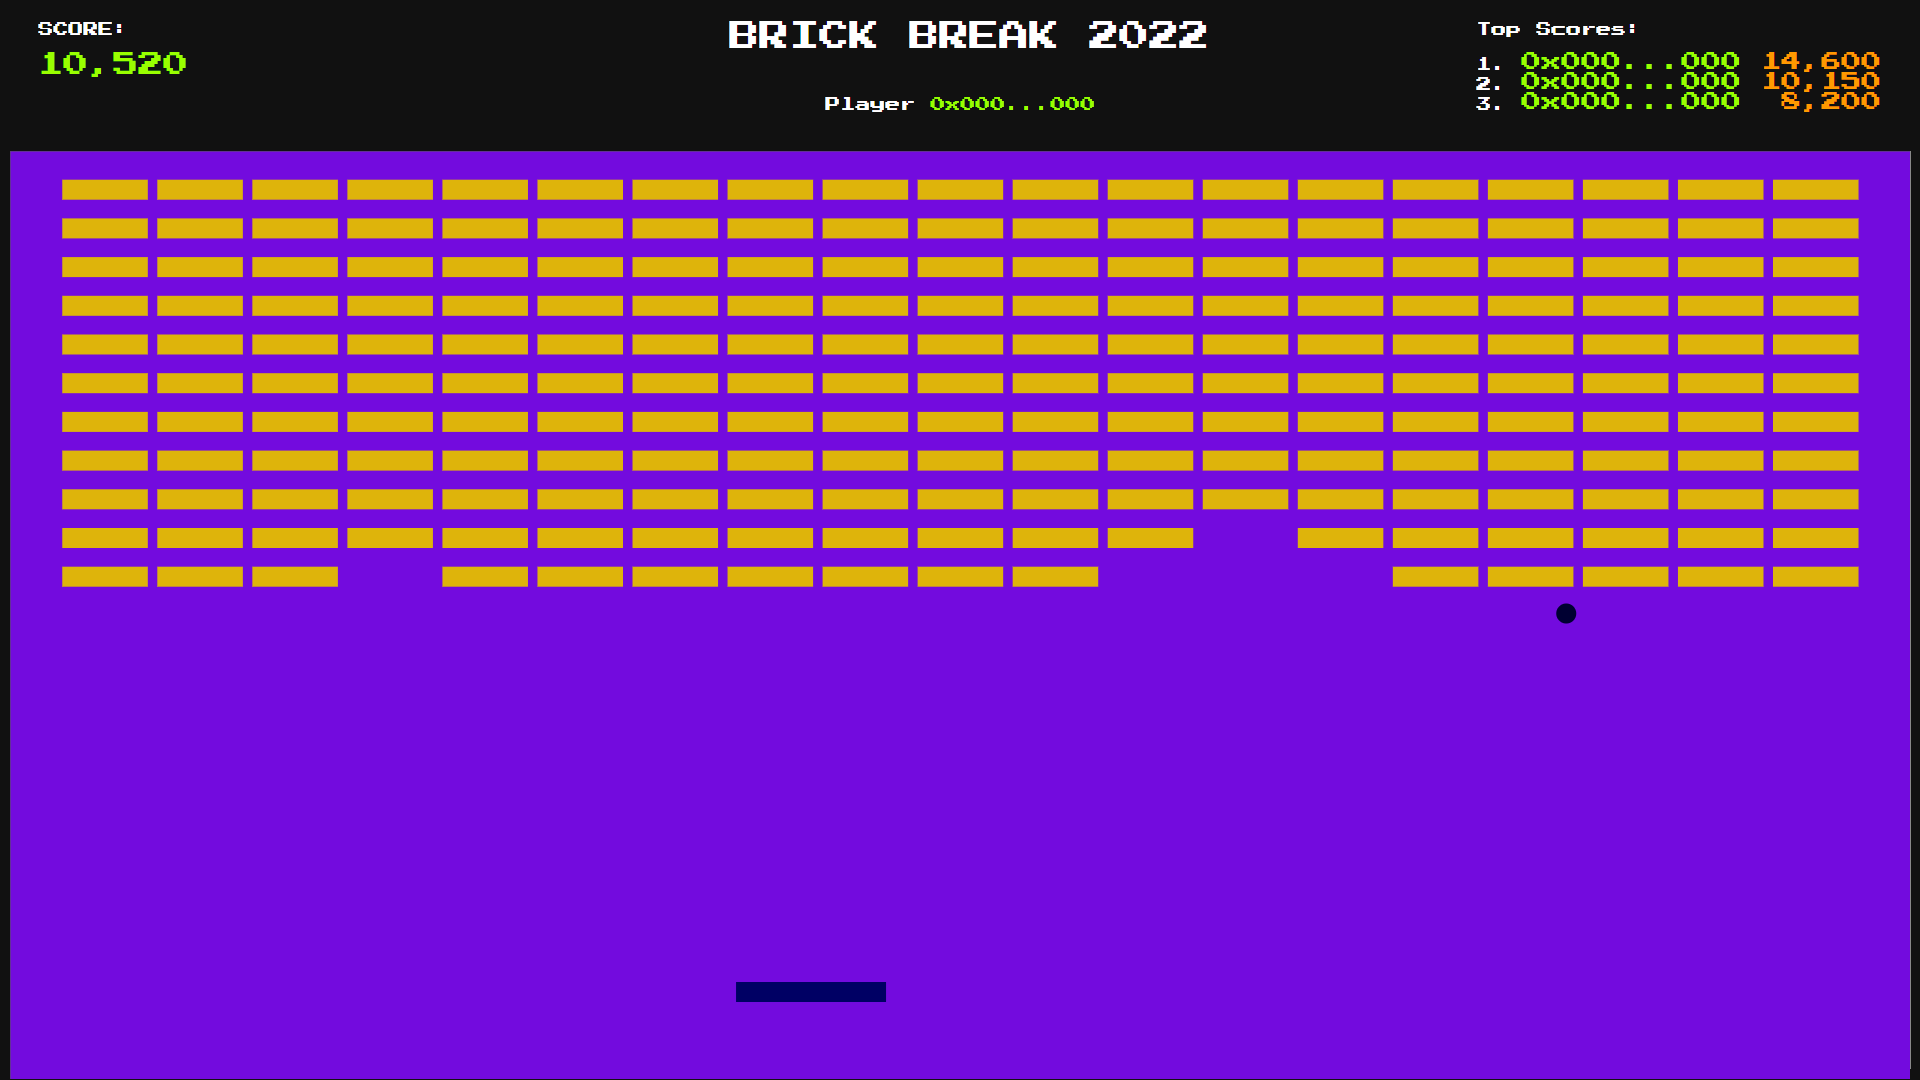
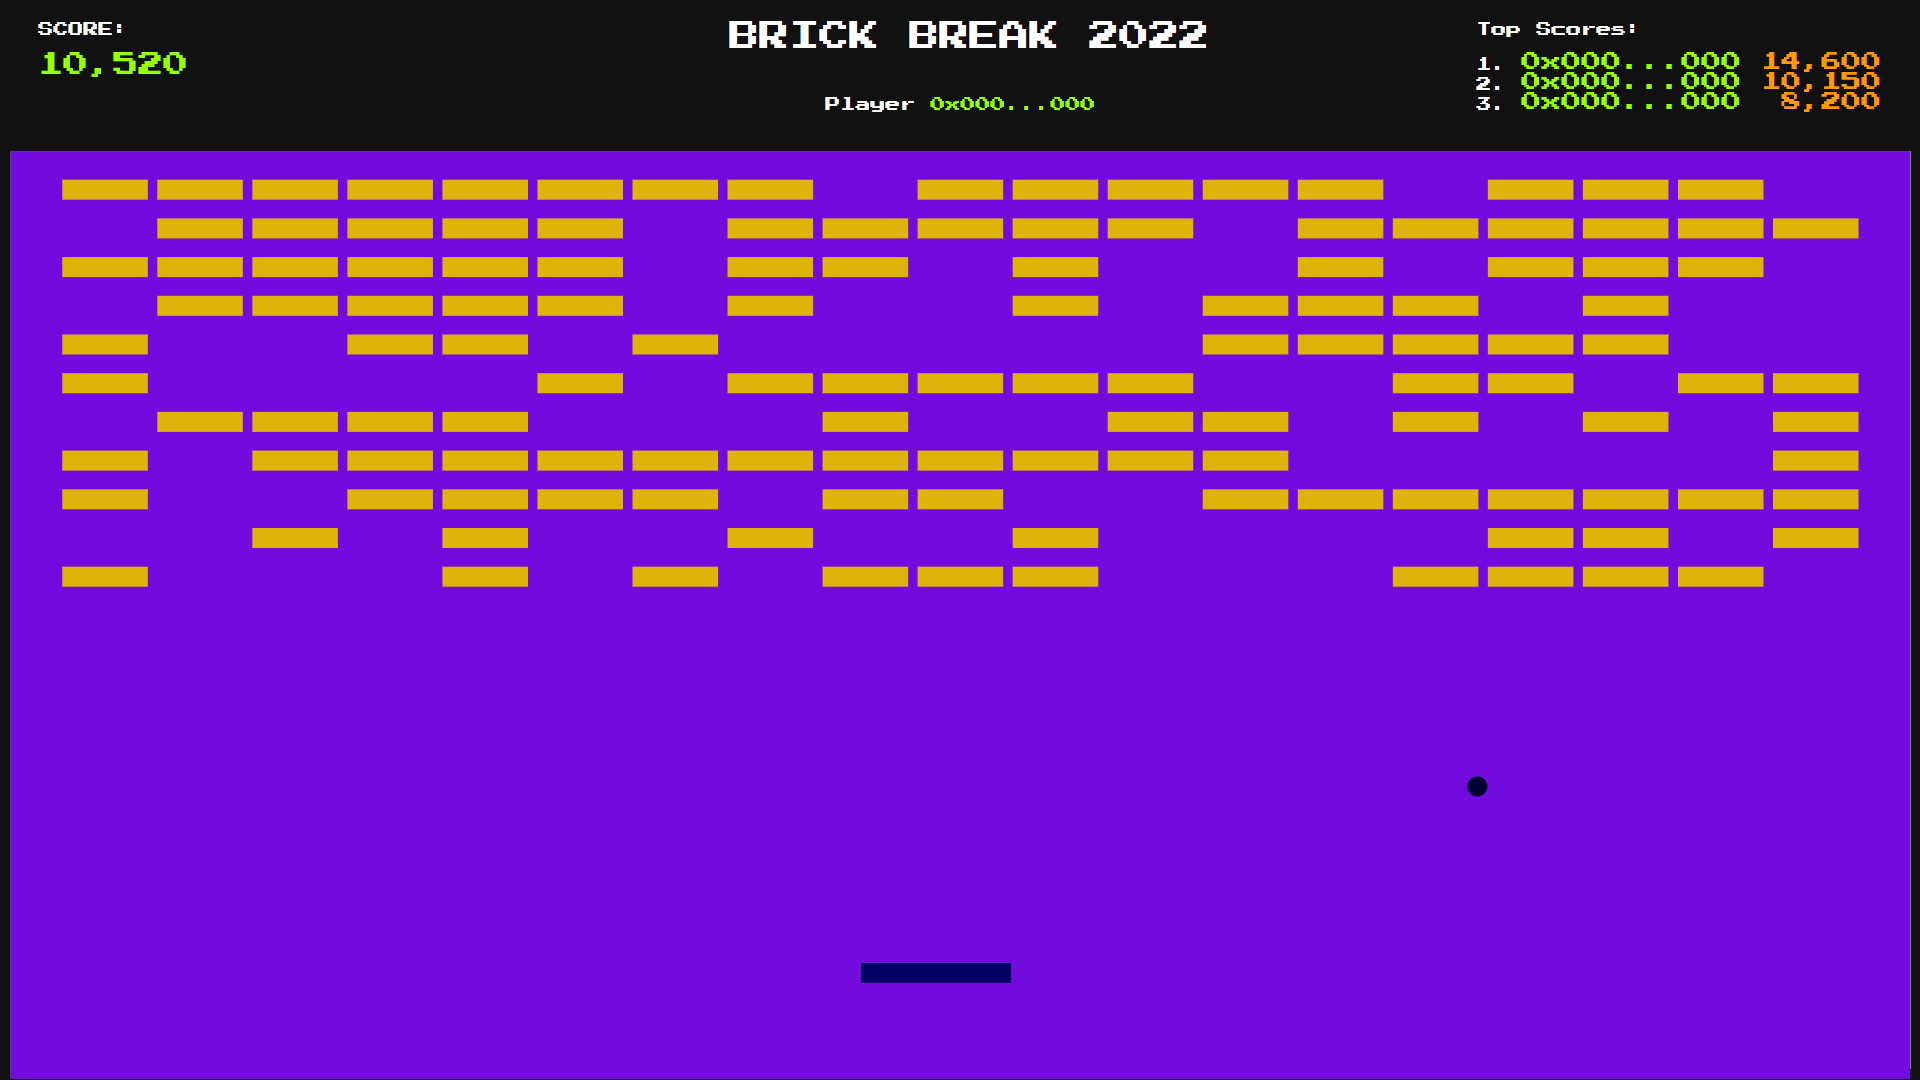
...

diff --git a/src/components/basicPhysics.jsx b/src/components/basicPhysics.jsx
@@ -35,6 +35,8 @@ export const MatterStepOne = () => {
     // for (let i = 1; i < (2); i++){
         let rowArray = [];
         for (let q = 1; q < (rowWidth); q++){
+            let randomExistence = getRandomInt(100);
+            if (randomExistence > 60){continue;}
             rowArray.push(
                 // Bodies.rectangle(x, y, 20, ((maxWidth/rowWidth)*.9), {
                 Bodies.rectangle( (maxWidth/rowWidth)*q, ((maxHeight/2)/rowHeight)*i,  ((maxWidth/rowWidth)*.9), 20, {
